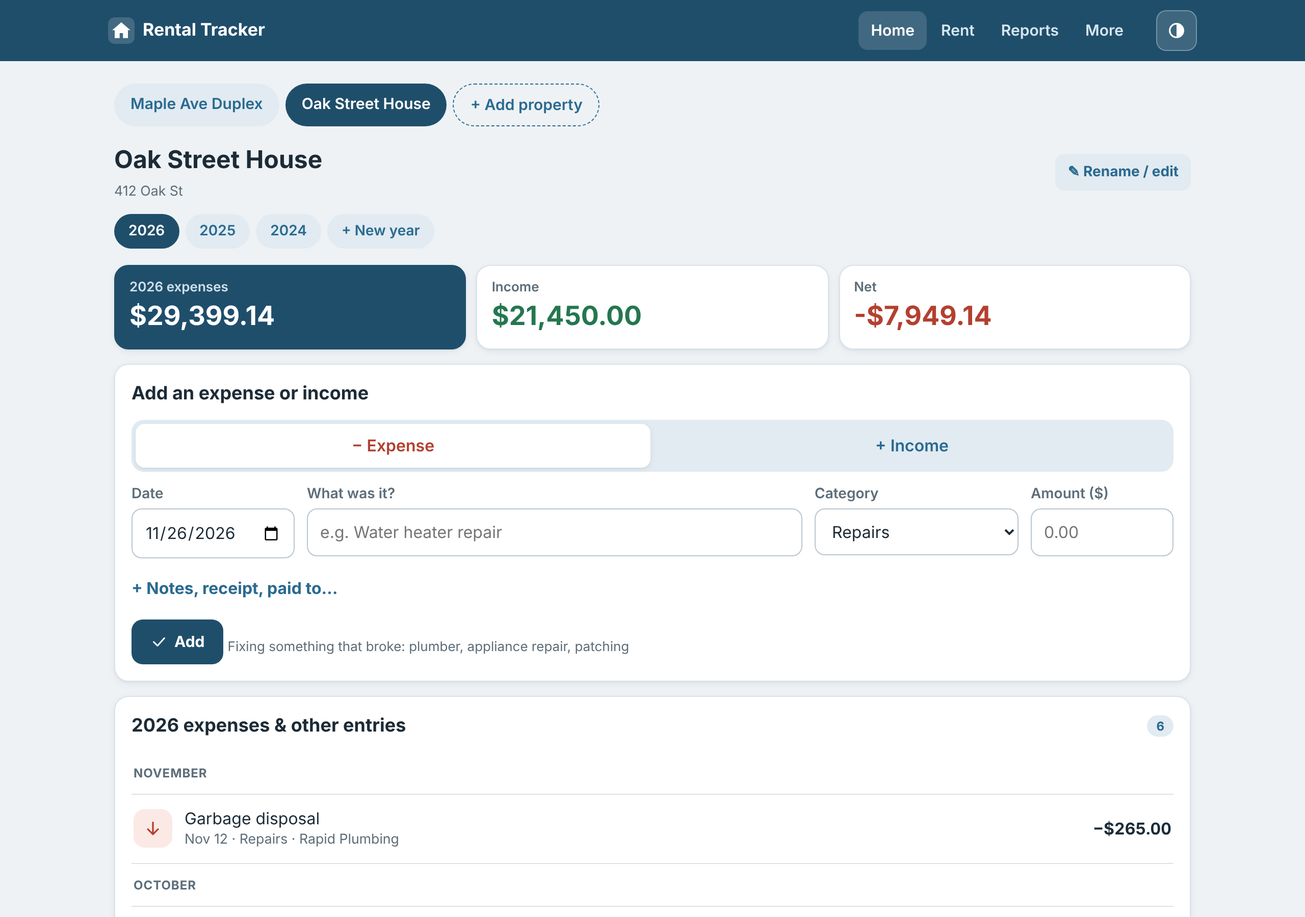
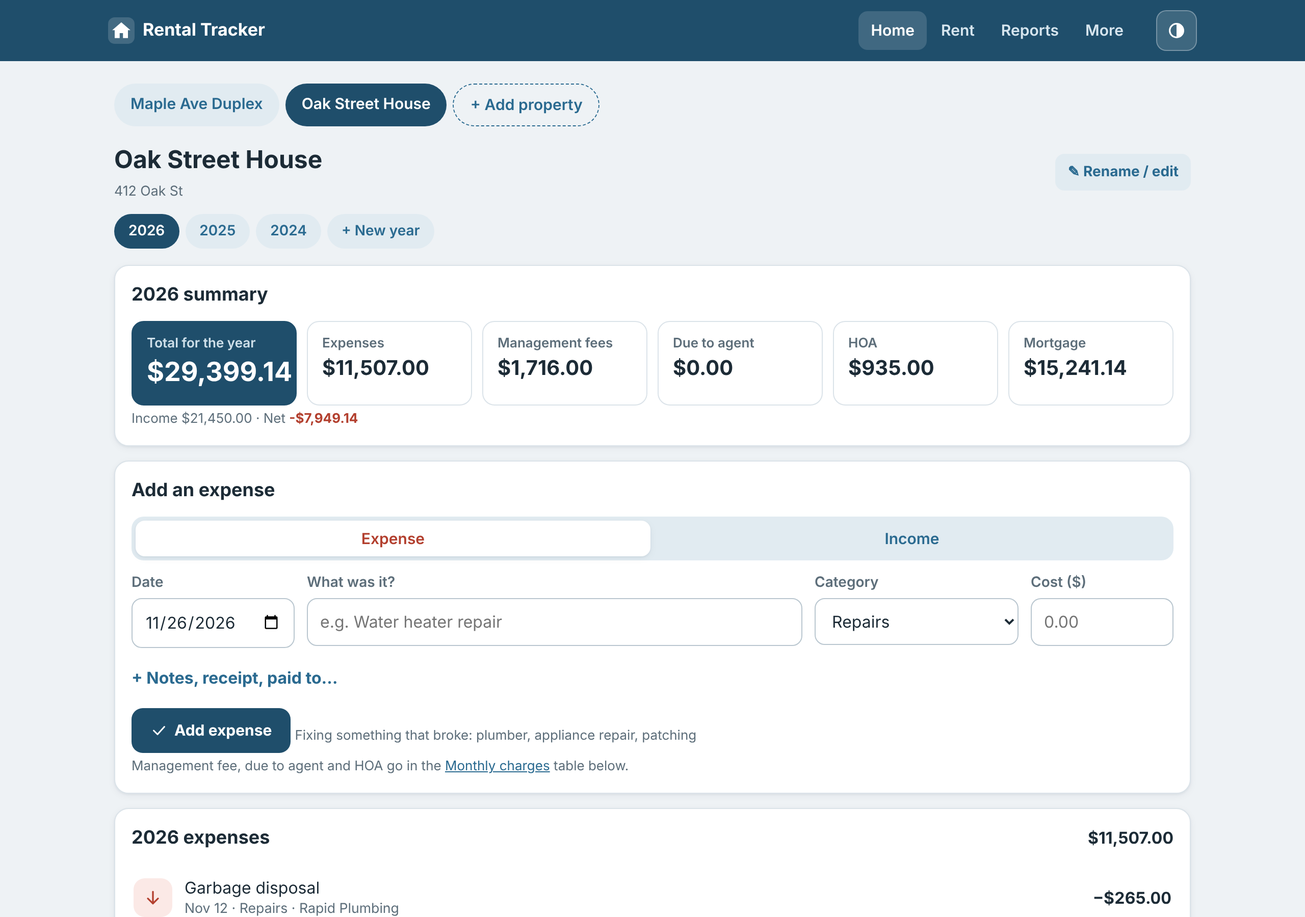
Separate expenses and monthly charges again, like the original (3.1)
- Home has two sections: Expenses (add form + the year's list) and
  Monthly charges, the original 12-month table with Mgmt fee, Due to
  agent, HOA and Note columns, typed in and saved in one go
- Summary split again: Total for the year, Expenses, Management fees,
  Due to agent, HOA (+ Mortgage when statements are imported)
- Monthly notes stored in their own table; original v1 notes restored
  (also for databases upgraded earlier); Excel import fills the Note column
- "Monthly bills" under More renamed back to "Recurring bills"
- Monthly table fits on phone screens; docs, changelog and screenshots updated

Claude-Session: https://claude.ai/code/session_01W93D3YYt2R5d5dLUQz6Aa4

diff --git a/templates/home.html b/templates/home.html
@@ -2,7 +2,7 @@
 {% block title %}{{ prop.name }}{% endblock %}
 {% block content %}
 
-{# 1. Pick a property (or add / rename one) #}
+{# Pick a property (or add / rename one) #}
 <nav class="chips props" aria-label="Property">
   {% for p in props %}<a href="{{ url_for('switch_property', pid=p.id, next=url_for('home', year=year)) }}" class="{{ 'on' if p.id==pid }}">{{ p.name }}</a>{% endfor %}
   <a href="{{ url_for('property_form', next=url_for('home')) }}" class="add">+ Add property</a>
@@ -12,33 +12,39 @@
   <a class="btn sm ghost" href="{{ url_for('property_form', prop_id=pid, next=url_for('home', year=year)) }}">✎ Rename / edit</a>
 </div>
 
-{# 2. Pick a year #}
+{# Pick a year #}
 <nav class="chips" aria-label="Year">
   {% for y in years|reverse %}<a href="{{ url_for('home', year=y) }}" class="{{ 'on' if y==year }}">{{ y }}</a>{% endfor %}
   <a href="{{ url_for('home', year=years[-1]+1) }}">+ New year</a>
 </nav>
 
-{# 3. Totals for the year #}
-<div class="kpis">
-  <div class="kpi main"><span>{{ year }} expenses</span><b>{{ t.expense|money }}</b></div>
-  <div class="kpi"><span>Income</span><b class="pos">{{ t.income|money }}</b></div>
-  <div class="kpi"><span>Net</span><b class="{{ 'pos' if t.net>=0 else 'neg' }}">{{ t.net|money }}</b></div>
-</div>
+{# Yearly totals at a glance, like the original #}
+<section class="card"><h2>{{ year }} summary</h2>
+  <div class="totals">
+    <div class="big"><span>Total for the year</span><b>{{ tot.grand|money }}</b></div>
+    <div><span>Expenses</span><b>{{ tot.expenses|money }}</b></div>
+    <div><span>Management fees</span><b>{{ tot.mgmt|money }}</b></div>
+    <div><span>Due to agent</span><b>{{ tot.agent|money }}</b></div>
+    <div><span>HOA</span><b>{{ tot.hoa|money }}</b></div>
+    {% if tot.mortgage %}<a href="{{ url_for('mortgage_page', year=year) }}"><span>Mortgage</span><b>{{ tot.mortgage|money }}</b></a>{% endif %}
+  </div>
+  {% if tot.income %}<p class="hint" style="margin-bottom:0">Income {{ tot.income|money }} · Net <b class="{{ 'pos' if tot.net>=0 else 'neg' }}">{{ tot.net|money }}</b></p>{% endif %}
+</section>
 
-{# 4. Add an expense right here #}
-<section class="card"><h2>Add an expense or income</h2>
+{# ===== SECTION 1: EXPENSES ===== #}
+<section class="card" id="expenses"><h2>Add an expense</h2>
 <form method="post" action="{{ url_for('money_save') }}" enctype="multipart/form-data" id="entry" class="quick">
   <input type="hidden" name="from_home" value="1"><input type="hidden" name="property_id" value="{{ pid }}">
-  <div class="seg" role="radiogroup" aria-label="Type" style="grid-column:1/-1">
-    <input type="radio" name="kind" id="k-exp" value="expense" checked><label for="k-exp">− Expense</label>
-    <input type="radio" name="kind" id="k-inc" value="income"><label for="k-inc">+ Income</label>
+  <div class="seg small" role="radiogroup" aria-label="Type" style="grid-column:1/-1">
+    <input type="radio" name="kind" id="k-exp" value="expense" checked><label for="k-exp">Expense</label>
+    <input type="radio" name="kind" id="k-inc" value="income"><label for="k-inc">Income</label>
   </div>
   <div><label for="date">Date</label><input type="date" id="date" name="date" value="{{ first_date }}" required></div>
   <div class="grow"><label for="description">What was it?</label><input id="description" name="description" required placeholder="e.g. Water heater repair"></div>
   <div><label>Category</label>
-    <div data-kind="expense"><select name="category_expense" aria-label="Expense category">{% for c in EXP_CATS %}<option data-hint="{{ c[2] }}" {{ 'selected' if c[0]=='Repairs' }}>{{ c[0] }}</option>{% endfor %}</select></div>
+    <div data-kind="expense"><select name="category_expense" aria-label="Expense category">{% for c in EXP_CATS if c[0] not in ('Management fees', 'Commissions', 'HOA dues') %}<option data-hint="{{ c[2] }}" {{ 'selected' if c[0]=='Repairs' }}>{{ c[0] }}</option>{% endfor %}</select></div>
     <div data-kind="income"><select name="category_income" aria-label="Income category">{% for c in INC_CATS %}<option data-hint="{{ c[2] }}">{{ c[0] }}</option>{% endfor %}</select></div></div>
-  <div><label for="amount">Amount ($)</label><input id="amount" name="amount" inputmode="decimal" required placeholder="0.00"></div>
+  <div><label for="amount">Cost ($)</label><input id="amount" name="amount" inputmode="decimal" required placeholder="0.00"></div>
   <details class="more" style="grid-column:1/-1"><summary>Notes, receipt, paid to…</summary>
     <div class="fields two" style="margin-top:8px">
       <div><label for="notes">Notes</label><input id="notes" name="notes"></div>
@@ -46,34 +52,29 @@
       <div class="wide"><label for="receipts">{{ icon('camera')|safe }} Receipt photo or PDF</label><input type="file" id="receipts" name="receipts" accept="image/*,application/pdf" multiple></div>
     </div>
   </details>
-  <div style="grid-column:1/-1"><button class="btn">{{ icon('check') }}Add</button> <span class="hint" id="cat-hint"></span></div>
-</form></section>
-
-{# 5. This year's one-off entries #}
-<section class="card" id="list"><div class="head"><h2>{{ year }} expenses &amp; other entries</h2><span class="badge">{{ rows|length }}</span></div>
-{% if rows %}<ul class="list">
-  {% set ns = namespace(m='') %}
-  {% for r in rows %}{% if r.date[:7] != ns.m %}{% set ns.m = r.date[:7] %}<li class="day">{{ MONTHS[r.date[5:7]|int - 1] }}</li>{% endif %}
-  {{ money_row(r) }}{% endfor %}
-</ul><p class="hint">Tap an entry to edit or delete it. Monthly bills, mortgage payments and rent are in the table below.</p>
-{% else %}<div class="empty"><b>Nothing for {{ year }} yet</b>Use the form above to add your first expense.</div>{% endif %}
+  <div style="grid-column:1/-1"><button class="btn">{{ icon('check') }}Add expense</button> <span class="hint" id="cat-hint"></span></div>
+</form>
+<p class="hint" style="margin-bottom:0">Management fee, due to agent and HOA go in the <a href="#monthly">Monthly charges</a> table below.</p>
 </section>
 
-{# 6. Month by month, like the original monthly charges table #}
-<section class="card" id="monthly"><div class="head"><h2>Month by month</h2><a class="btn sm ghost" href="{{ url_for('bills') }}">{{ 'Monthly bills' if has_bills else '+ Add a monthly bill' }}</a></div>
-{% if columns %}
-<div class="scroll"><table>
-  <thead><tr><th>Month</th>{% for c in columns %}<th class="r">{{ c.label }}</th>{% endfor %}</tr></thead>
-  <tbody>{% for m in range(1, 13) %}<tr><td>{{ MONTHS[m-1] }}</td>
-    {% for c in columns %}{% set items = grid.get((c.key, m), []) %}<td class="r">{% if items %}
-      {% set total = items|sum(attribute='amount') %}
-      {% if c.key == 'rent' %}<a class="pos" href="{{ url_for('rent', year=year) }}">{{ total|money }}</a>
-      {% elif c.key == 'mortgage' %}<a href="{{ url_for('mortgage_page', year=year) }}">{{ total|money }}</a>
-      {% else %}<a href="{{ url_for('money_form', tx_id=items[0].id, next=url_for('home', year=year) + '#monthly') }}">{{ total|money }}</a>{% endif %}
-    {% else %}<span class="muted">—</span>{% endif %}</td>{% endfor %}</tr>{% endfor %}</tbody>
-  <tfoot><tr><td>Total</td>{% for c in columns %}<td class="r">{{ col_totals[c.key]|money }}</td>{% endfor %}</tr></tfoot>
-</table></div>
-<p class="hint">Monthly bills are added automatically. Tap an amount to change it; mortgage opens the Mortgage page and rent opens the Rent page.</p>
-{% else %}<p class="empty" style="padding:8px 0">Management fee, HOA, insurance… Set them up once with <b>+ Add a monthly bill</b> and they show up here every month automatically.</p>{% endif %}
+<section class="card" id="list"><div class="head"><h2>{{ year }} expenses</h2><b>{{ tot.expenses|money }}</b></div>
+{% if rows %}<ul class="list">{% for r in rows %}{{ money_row(r) }}{% endfor %}</ul>
+<p class="hint">Tap an expense to edit or delete it.</p>
+{% else %}<div class="empty"><b>No expenses for {{ year }} yet</b>Use the form above to add the first one.</div>{% endif %}
+</section>
+
+{# ===== SECTION 2: MONTHLY CHARGES (management fee, agent, HOA) ===== #}
+<section class="card" id="monthly"><h2>Monthly charges</h2>
+<form method="post" action="{{ url_for('save_monthly') }}">
+  <input type="hidden" name="property_id" value="{{ pid }}"><input type="hidden" name="year" value="{{ year }}">
+  <div class="scroll"><table class="monthly">
+    <thead><tr><th>Month</th>{% for c in columns %}<th>{{ c[2] }}</th>{% endfor %}<th>Note (e.g. late fee)</th></tr></thead>
+    <tbody>{% for m in months %}<tr><td><span class="long">{{ m.name }}</span><span class="short">{{ m.name[:3] }}</span></td>
+      {% for c in columns %}<td><input name="{{ c[0] }}{{ m.n }}" inputmode="decimal" aria-label="{{ c[2] }} {{ m.name }}" value="{{ '%.2f'|format(m[c[0]]) if m[c[0]] else '' }}" placeholder="0.00"></td>{% endfor %}
+      <td><input name="note{{ m.n }}" aria-label="Note {{ m.name }}" value="{{ m.note }}"></td></tr>{% endfor %}</tbody>
+    <tfoot><tr><td>Total</td>{% for c in columns %}<td>{{ tot[c[0]]|money }}</td>{% endfor %}<td></td></tr></tfoot>
+  </table></div>
+  <p style="margin:14px 0 0"><button class="btn">{{ icon('check') }}Save monthly charges</button></p>
+</form>
 </section>
 {% endblock %}

diff --git a/templates/more.html b/templates/more.html
@@ -4,7 +4,7 @@
 <h1>More</h1>
 <div class="tiles" style="margin-bottom:14px">
   <a class="tile" href="{{ url_for('properties') }}">{{ icon('building') }}<b>Properties</b><small class="muted">Add, rename or remove properties</small></a>
-  <a class="tile" href="{{ url_for('bills') }}">{{ icon('repeat') }}<b>Monthly bills</b><small class="muted">HOA, management fee, insurance</small></a>
+  <a class="tile" href="{{ url_for('bills') }}">{{ icon('repeat') }}<b>Recurring bills</b><small class="muted">Add a bill automatically every month</small></a>
   <a class="tile" href="{{ url_for('mortgage_page') }}">{{ icon('file') }}<b>Mortgage</b><small class="muted">Import statements &amp; Form 1098</small></a>
   <a class="tile" href="{{ url_for('money_list') }}">{{ icon('search') }}<b>Search &amp; export</b><small class="muted">Find entries, download CSV</small></a>
   <a class="tile" href="{{ url_for('vendors') }}">{{ icon('users') }}<b>Vendors</b><small class="muted">Contractors &amp; 1099 check</small></a>
@@ -28,7 +28,7 @@
 
 <section class="card"><details class="more"><summary>Import from Excel</summary>
   <form method="post" action="{{ url_for('import_excel') }}" enctype="multipart/form-data" class="fields" style="margin-top:8px"
-        data-confirm="This replaces the typed-in expenses for every year found in the file (income, rent and monthly bills are kept). A safety copy is made first. Continue?">
+        data-confirm="This replaces the typed-in expenses for every year found in the file (income, rent and recurring bills are kept). A safety copy is made first. Continue?">
     <p class="hint" style="margin:0">Each sheet named by year (like 2025). Expenses in columns A–C from row 3; monthly management fee, agent and HOA in columns F–H.</p>
     {{ property_select(pid or props[0].id, 'Import into') }}
     <input type="file" name="file" accept=".xlsx" required>

diff --git a/static/style.css b/static/style.css
@@ -218,3 +218,24 @@ table.grid12 td:first-child,table.grid12 th:first-child{text-align:left;position
 .notes h2{font-size:18px;margin:22px 0 4px} .notes h2:first-child{margin-top:0} .notes h3{font-size:15px;margin:12px 0 4px;color:var(--muted)}
 .notes ul{margin:4px 0 8px;padding-left:20px} .notes li{margin:3px 0}
 .chips.props{flex-wrap:wrap;overflow:visible}
+
+/* ----- Home: yearly summary boxes (like the original) ----- */
+.totals{display:grid;grid-template-columns:repeat(auto-fit,minmax(150px,1fr));gap:10px}
+.totals>div,.totals>a{padding:12px 14px;border:1px solid var(--line);border-radius:12px;color:inherit;text-decoration:none;min-width:0}
+.totals span{display:block;color:var(--muted);font-size:13px;font-weight:600}
+.totals b{font-size:20px;white-space:nowrap}
+.totals .big{background:var(--brand);border-color:var(--brand);color:#fff;grid-column:1/-1} .totals .big span{color:#cfe0ea} .totals .big b{font-size:26px}
+@media (min-width:860px){.totals .big{grid-column:auto}}
+
+/* ----- Home: monthly charges table you type into ----- */
+table.monthly td{padding:5px 6px} table.monthly th{padding:6px}
+table.monthly input{min-height:40px;padding:7px 9px;font-size:16px;min-width:84px}
+table.monthly td:last-child input{min-width:150px}
+table.monthly td:first-child{font-weight:600;white-space:nowrap}
+.seg.small label{padding:7px;font-size:15px}
+table.monthly .short{display:none}
+@media (max-width:600px){
+  table.monthly .long{display:none} table.monthly .short{display:inline}
+  table.monthly input{min-width:74px;padding:7px 6px} table.monthly td,table.monthly th{padding:4px 3px}
+  table.monthly th{font-size:12px;white-space:normal}
+}

diff --git a/templates/bills.html b/templates/bills.html
@@ -1,7 +1,7 @@
 {% extends "base.html" %}{% from "macros.html" import icon, property_select, property_chips with context %}
-{% block title %}Monthly bills{% endblock %}
+{% block title %}Recurring bills{% endblock %}
 {% block content %}
-<div class="head"><h1>Monthly bills</h1></div>
+<div class="head"><h1>Recurring bills</h1></div>
 {{ property_chips() }}
 <p class="note">Set up bills that repeat, like HOA dues, the management fee, insurance or the mortgage. Each time one comes due it's
 added to <b>Money</b> automatically. (For the mortgage, importing your monthly statements on the <a href="{{ url_for('mortgage_page') }}">Mortgage</a> page is more accurate.) If a bill was different one month, just tap that payment in Money and change it.</p>

diff --git a/app.py b/app.py
@@ -156,36 +156,73 @@ def switch_property():
 
 
 # ---------- HOME ----------
+# The original app's "monthly charges" columns. Each is stored as an expense in this category.
+MONTHLY_COLUMNS = [("mgmt", "Management fees", "Mgmt fee", "Management fee"),
+                   ("agent", "Commissions", "Due to agent", "Due to agent"),
+                   ("hoa", "HOA dues", "HOA", "HOA")]
+MONTHLY_CATS = {c[1]: c[0] for c in MONTHLY_COLUMNS}
+
 @app.route("/")
 def home():
-    """The main screen: pick a property, then add and see that year's expenses."""
+    """The main screen, laid out like the original app: pick a property and year,
+    then two separate sections: one-off Expenses, and the Monthly charges table."""
     props = all_properties()
     pid = current_pid() or props[0]["id"]
     prop = next(p for p in props if p["id"] == pid)
     year = year_arg()
     rows = reports.find_transactions(pid=pid, year=year)
-    t = reports.totals(rows)
-    # Monthly table (like the original "monthly charges"): one column per monthly bill,
-    # plus the mortgage and rent received. Everything else goes in the list of entries.
-    bills = db().execute("SELECT * FROM recurring WHERE property_id=? ORDER BY description", (pid,)).fetchall()
-    grid, entries = {}, []
+    expenses, monthly, mortgage, income = [], {}, 0.0, 0.0
     for r in rows:
-        m = int(r["date"][5:7])
-        if r["recurring_id"]: key = r["recurring_id"]
-        elif r["category"] in reports.MORTGAGE_CATS: key = "mortgage"
-        elif r["kind"] == "income" and r["category"] == "Rent" and r["lease_id"]: key = "rent"
+        cash = not r["from_escrow"]
+        if r["kind"] == "income":
+            if cash: income += r["amount"]
+            if not (r["category"] == "Rent" and r["lease_id"]): expenses.append(r)   # rent lives on the Rent page
+        elif r["category"] in MONTHLY_CATS:
+            key = (MONTHLY_CATS[r["category"]], int(r["date"][5:7]))
+            monthly[key] = monthly.get(key, 0.0) + r["amount"]
+        elif r["category"] in reports.MORTGAGE_CATS:
+            mortgage += r["amount"]
         else:
-            entries.append(r); continue
-        grid.setdefault((key, m), []).append(r)
-    columns = [{"key": b["id"], "label": b["description"]} for b in bills
-               if b["active"] or any(k[0] == b["id"] for k in grid)]
-    if any(k[0] == "mortgage" for k in grid): columns.append({"key": "mortgage", "label": "Mortgage"})
-    if any(k[0] == "rent" for k in grid): columns.append({"key": "rent", "label": "Rent received"})
-    col_totals = {c["key"]: sum(r["amount"] for (k, _), items in grid.items() if k == c["key"] for r in items) for c in columns}
+            expenses.append(r)
+    notes = {n["month"]: n["note"] for n in db().execute(
+        "SELECT month, note FROM monthly_notes WHERE property_id=? AND year=?", (pid, year))}
+    months = [{"n": m, "name": MONTHS[m - 1], "note": notes.get(m, ""),
+               **{c[0]: monthly.get((c[0], m), 0.0) for c in MONTHLY_COLUMNS}} for m in range(1, 13)]
+    tot = {c[0]: sum(m[c[0]] for m in months) for c in MONTHLY_COLUMNS}
+    tot["expenses"] = sum(r["amount"] for r in expenses if r["kind"] == "expense" and not r["from_escrow"])
+    tot["mortgage"] = mortgage
+    tot["grand"] = tot["expenses"] + tot["mgmt"] + tot["agent"] + tot["hoa"] + mortgage
+    tot["income"], tot["net"] = income, income - tot["grand"]
     years = sorted(set(reports.years_with_data(pid)) | {year})
     first = today().isoformat() if year == today().year else f"{year}-01-01"
-    return render_template("home.html", prop=prop, pid=pid, year=year, years=years, rows=entries, t=t,
-                           columns=columns, grid=grid, col_totals=col_totals, has_bills=bool(bills), first_date=first)
+    return render_template("home.html", prop=prop, pid=pid, year=year, years=years, rows=expenses, tot=tot,
+                           months=months, columns=MONTHLY_COLUMNS, first_date=first)
+
+@app.route("/monthly/save", methods=["POST"])
+def save_monthly():
+    """Save the whole 12-month table (management fee, agent, HOA, notes) in one go, like the original app."""
+    f = request.form
+    pid, year = f.get("property_id", type=int) or default_pid(), f.get("year", type=int) or today().year
+    for m in range(1, 13):
+        period = f"{year}-{m:02d}"
+        for key, cat, _, desc in MONTHLY_COLUMNS:
+            want = round(num(f.get(f"{key}{m}")), 2)
+            have = db().execute("SELECT id, amount FROM transactions WHERE property_id=? AND kind='expense' AND category=?"
+                                " AND substr(date,1,7)=? ORDER BY id", (pid, cat, period)).fetchall()
+            if abs(sum(h["amount"] for h in have) - want) < 0.005: continue      # unchanged
+            if have:                                                            # keep the first entry, adjust it
+                db().execute("UPDATE transactions SET amount=? WHERE id=?", (want, have[0]["id"]))
+                for h in have[1:]: db().execute("DELETE FROM transactions WHERE id=?", (h["id"],))
+                if not want: db().execute("DELETE FROM transactions WHERE id=?", (have[0]["id"],))
+            elif want:
+                db().execute("INSERT INTO transactions (property_id,kind,date,description,category,amount) VALUES (?,?,?,?,?,?)",
+                             (pid, "expense", f"{period}-01", desc, cat, want))
+        note = (f.get(f"note{m}") or "").strip()
+        db().execute("INSERT INTO monthly_notes (property_id,year,month,note) VALUES (?,?,?,?) "
+                     "ON CONFLICT(property_id,year,month) DO UPDATE SET note=excluded.note", (pid, year, m, note))
+    db().commit()
+    flash("Monthly charges saved.")
+    return redirect(url_for("home", year=year) + "#monthly")
 
 
 # ---------- MONEY (all income & expenses) ----------
@@ -836,7 +873,7 @@ def mortgage_doc_delete(doc_id):
 
 
 # ---------- ABOUT & WHAT'S NEW ----------
-APP_VERSION = "3.0"
+APP_VERSION = "3.1"
 
 def simple_markdown(text):
     """Turn the few Markdown bits used in CHANGELOG.md into HTML (headings, bullets, bold)."""
@@ -921,7 +958,9 @@ def import_excel():
             for col, desc, cat in ((6, "Management fee", "Management fees"), (7, "Due to agent", "Commissions"), (8, "HOA", "HOA dues")):
                 v = ws.cell(row, col).value
                 if isinstance(v, (int, float)) and v:
-                    db().execute(ins, (pid, "expense", f"{year}-{m:02d}-01", desc, cat, v, note)); note = ""
+                    db().execute(ins, (pid, "expense", f"{year}-{m:02d}-01", desc, cat, v, ""))
+            db().execute("INSERT INTO monthly_notes (property_id,year,month,note) VALUES (?,?,?,?) "     # the Note column
+                         "ON CONFLICT(property_id,year,month) DO UPDATE SET note=excluded.note", (pid, year, m, note.strip()))
         done.append(str(year))
     db().commit()
     flash("Imported years: " + ", ".join(done) if done else "No sheets named like a year (e.g. 2025) were found.")

diff --git a/store.py b/store.py
@@ -174,6 +174,9 @@ CREATE TABLE IF NOT EXISTS mortgage_docs (                   -- imported mortgag
     property_id INTEGER NOT NULL REFERENCES properties(id) ON DELETE CASCADE,
     kind TEXT NOT NULL CHECK (kind IN ('statement','1098')), doc_date TEXT, year INTEGER,
     stored TEXT, filename TEXT, sha TEXT, data TEXT, created TEXT DEFAULT CURRENT_TIMESTAMP);
+CREATE TABLE IF NOT EXISTS monthly_notes (                   -- the "Note" column of the monthly charges table
+    property_id INTEGER NOT NULL REFERENCES properties(id) ON DELETE CASCADE,
+    year INTEGER NOT NULL, month INTEGER NOT NULL, note TEXT, PRIMARY KEY (property_id, year, month));
 CREATE TABLE IF NOT EXISTS task_log (
     id INTEGER PRIMARY KEY AUTOINCREMENT,
     task_id INTEGER NOT NULL REFERENCES tasks(id) ON DELETE CASCADE,
@@ -198,6 +201,12 @@ def init_db():
         conn.execute("INSERT INTO properties (name) VALUES (?)", (DEFAULT_PROPERTY,))
     if version < SCHEMA_VERSION and "expenses" in tables:
         migrate_v1(conn)
+    # Databases upgraded before the monthly notes table existed: bring the original notes back once
+    names = {r[0] for r in conn.execute("SELECT name FROM sqlite_master WHERE type='table'")}
+    if "legacy_monthly" in names and not conn.execute("SELECT 1 FROM monthly_notes").fetchone():
+        first = conn.execute("SELECT id FROM properties ORDER BY id LIMIT 1").fetchone()[0]
+        conn.execute("INSERT OR IGNORE INTO monthly_notes SELECT ?, year, month, trim(note) FROM legacy_monthly"
+                     " WHERE trim(coalesce(note,''))<>''", (first,))
     cols = {r[1] for r in conn.execute("PRAGMA table_info(transactions)")}
     if "from_escrow" not in cols:                        # added in version 3
         conn.execute("ALTER TABLE transactions ADD COLUMN from_escrow INTEGER DEFAULT 0")
@@ -236,6 +245,8 @@ def migrate_v1(conn):
                 if m[col]:
                     conn.execute("INSERT INTO transactions (property_id,kind,date,description,category,amount,notes) VALUES (?,?,?,?,?,?,?)",
                                  (pid, "expense", date, desc, cat, m[col], note)); note = ""
+            if (m["note"] or "").strip():
+                conn.execute("INSERT OR REPLACE INTO monthly_notes VALUES (?,?,?,?)", (pid, m["year"], m["month"], m["note"].strip()))
         conn.execute("ALTER TABLE monthly RENAME TO legacy_monthly")
     conn.execute("ALTER TABLE expenses RENAME TO legacy_expenses")
 

diff --git a/README.md b/README.md
@@ -10,20 +10,20 @@ phone's browser on your home Wi-Fi.
 <p>
 <img src="docs/screenshots/phone-home.png" width="230" alt="Home screen on a phone">
 <img src="docs/screenshots/phone-rent.png" width="230" alt="Rent page on a phone">
-<img src="docs/screenshots/phone-home-dark.png" width="230" alt="Home screen in dark mode">
+<img src="docs/screenshots/phone-home-dark.png" width="230" alt="Monthly charges table in dark mode">
 </p>
 
 ## How it's organized
 Four tabs: **Home · Rent · Reports · More**.
 
-**Home: your expenses, the way the original app worked**
+**Home: laid out like the original app**
 - **Pick your property** at the top. **+ Add property** and **Rename / edit** are right there.
-- **Pick a year**, see the year's **expenses, income and net** at a glance.
-- **Add an expense** (or income) right on the page: date, what it was, category, amount. Notes, a receipt photo
-  and who you paid are tucked under *Notes, receipt, paid to…*.
-- **That year's entries** below. Tap one to edit or delete it.
-- **Month by month table**, like the original monthly charges: one column per monthly bill (management fee, HOA…),
-  plus your mortgage and rent received.
+- **Pick a year** and see the **summary**: Total for the year, Expenses, Management fees, Due to agent and HOA.
+- Two separate sections:
+  - **Expenses:** add one right on the page (date, what it was, category, cost) and see that year's list.
+    Notes, a receipt photo and who you paid are tucked under *Notes, receipt, paid to…*. Tap an expense to edit or delete it.
+  - **Monthly charges:** the original 12-month table with **Mgmt fee**, **Due to agent**, **HOA** and **Note** columns.
+    Type the amounts in and tap **Save monthly charges**.
 
 **Rent**
 - Each lease shows a **box for every month**. Tap a month to mark it **paid**, past months too, and tap again to undo.
@@ -38,7 +38,8 @@ Four tabs: **Home · Rent · Reports · More**.
 
 **More**
 - **Properties**: add, rename or remove.
-- **Monthly bills**: set up HOA, management fee, insurance and so on once; they're added every month automatically.
+- **Recurring bills**: optional. Set a bill up once and it's added every month automatically (a recurring
+  management fee or HOA fills in the Monthly charges table for you).
 - **Mortgage**: import your lender's monthly statement and Form 1098 PDFs (details below).
 - **Search & export**: find any entry and download a CSV.
 - **Vendors** (with tap-to-call and a 1099 check) and **Upkeep** (maintenance reminders).
@@ -164,7 +165,7 @@ The old tables are kept in the database (renamed `legacy_expenses` and `legacy_m
 Each sheet is named by year (e.g. `2025`). Expenses are in columns A (description), B (date), C (cost),
 starting at row 3 and ending at a row labeled "Total". The 12 monthly rows are in rows 3-14 with
 management fee, agent and HOA in columns F, G, H and an optional note in column I.
-Importing replaces the typed-in expenses for that property and year. Income, rent and monthly bills are kept,
+Importing replaces the typed-in expenses for that property and year. Income, rent and recurring bills are kept,
 and a safety copy is saved first as `data/backup-before-import.db`.
 
 <img src="docs/screenshots/desktop-reports.png" alt="Reports page with the Schedule E summary">

diff --git a/HOW_TO_RUN.md b/HOW_TO_RUN.md
@@ -61,12 +61,13 @@ Run these from inside the `Rental-Property-Expense-Tracker` folder:
 1. On **Home**, tap **Rename / edit** to give your property its real name (and address).
    Have more than one? Tap **+ Add property** at the top.
 2. **Rent → Add lease**: enter your tenant, rent and due day.
-3. **More → Monthly bills**: add bills that repeat every month (HOA, management fee, insurance…).
+3. Fill in the **Monthly charges** table on Home (management fee, due to agent, HOA) and tap **Save monthly charges**.
 
 ## Everyday use
-- **Add an expense:** on **Home**, pick the property, fill in the date, what it was, category and amount, and tap **Add**.
+- **Add an expense:** on **Home**, pick the property, fill in the date, what it was, category and cost, and tap **Add expense**.
   Tap *Notes, receipt, paid to…* to snap a photo of the receipt.
-- **Fix or delete something:** tap it in the list on Home.
+- **Management fee, agent or HOA:** type it into that month's row in the **Monthly charges** table and tap **Save monthly charges**.
+- **Fix or delete an expense:** tap it in the expenses list on Home.
 - **Rent came in?** On the **Rent** page, tap that month's box to mark it paid. Tap it again to undo.
 - **Tax time:** **Reports** has your Schedule E summary and a **PDF report** button.
 - **Light or dark mode:** tap the button at the top right, or choose on the **More** page.

diff --git a/CHANGELOG.md b/CHANGELOG.md
@@ -1,5 +1,13 @@
 # What's new
 
+## Version 3.1 · November 26, 2026
+Expenses and monthly charges are separate again, just like the original app.
+- **Home has two separate sections:** **Expenses** (repairs, trips, supplies… with the add form and the year's list) and **Monthly charges**, the original 12-month table with **Mgmt fee**, **Due to agent**, **HOA** and **Note** columns.
+- Type straight into the monthly table and tap **Save monthly charges**, like before.
+- The summary is split again: **Total for the year**, **Expenses**, **Management fees**, **Due to agent**, **HOA** (and **Mortgage** if you import statements).
+- Your original monthly notes (like "late fee") are back in the Note column.
+- "Monthly bills" under More is renamed **Recurring bills** so it isn't confused with Monthly charges.
+
 ## Version 3.0 · November 26, 2026
 A simpler, cleaner layout built around what matters most: your expenses.
 - **Home works like the original app again:** pick your property at the top, pick a year, and add expenses right on the page. That year's list and your monthly bills table are below.
